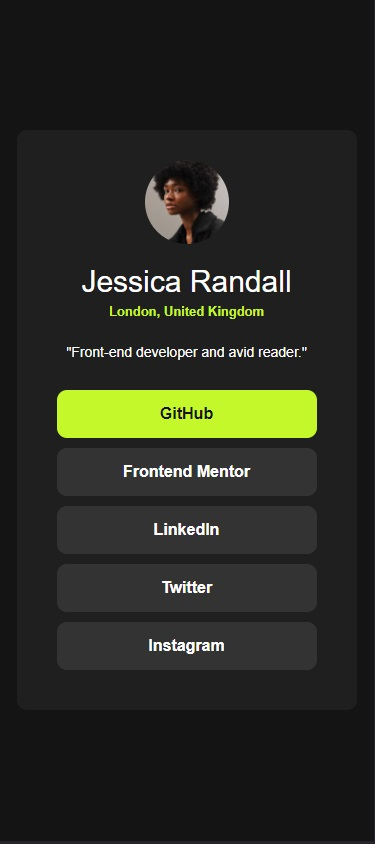
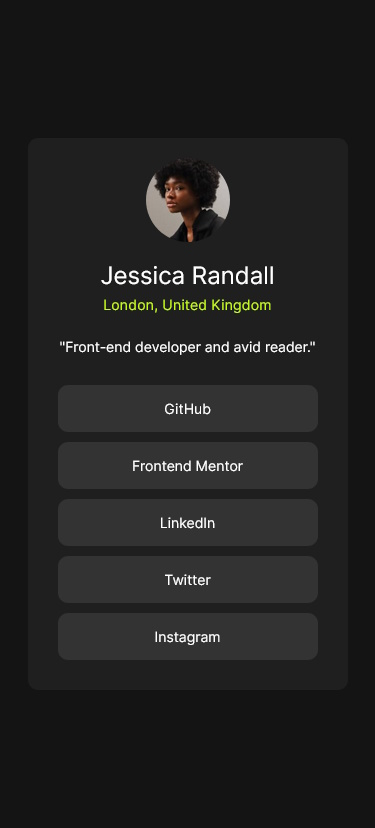
corrections

diff --git a/styles.css b/styles.css
@@ -14,11 +14,13 @@ body {
     display: flex;
     justify-content: center;
     align-items: center;
+    min-height: 100vh;
+    font-size: 14px;
 }
 
 .profile-container {
     background-color: var(--dark-grey);
-    padding: 40px;
+    padding: 20px;
     border-radius: 10px;
     width: 350px;
 }
@@ -29,19 +31,19 @@ body {
 }
 
 .name {
-    font-weight: 700;
+    font-weight: 600;
+    font-size: 1.5rem;
 }
 
 .location {
     color: var(--primary-color);
-    font-weight: 700;
-    margin-top: -15px;
+    font-weight: 400;
+    margin-top: -10px;
     margin-bottom: 25px;
-    font-size: small;
+    font-size: 0.9rem;
 }
 
 .subtext {
-    font-size: 14px;
     font-weight: 400;
     margin-bottom: 30px;
 }
@@ -50,7 +52,7 @@ body {
     text-decoration: none;
     background-color: var(--grey);
     color: var(--white);
-    font-weight: 600;
+    font-weight: 400;
     border-radius: 10px;
     padding: 15px;
     display: block;
@@ -65,12 +67,10 @@ body {
 
 @media (max-width: 375px) {
     .name {
-        font-size: 30px;
         font-weight: 400;
     }
 
     .profile-container {
-    padding: 30px;
     width: 280px;
     margin: 20px auto;
  }

diff --git a/index.html b/index.html
@@ -1,3 +1,4 @@
+<!DOCTYPE html>
 <html lang="en">
 <head>
   <meta charset="UTF-8">

diff --git a/README.md b/README.md
@@ -6,7 +6,7 @@ This is a solution to the [Social links profile challenge on Frontend Mentor](ht
 
 - [Overview](#overview)
   - [The challenge](#the-challenge)
-  - [Screenshots](#screenshot-desktop)
+  - [Screenshots](#screenshots)
   - [Links](#links)
 - [My process](#my-process)
   - [Built with](#built-with)
@@ -21,18 +21,16 @@ Users should be able to:
 
 - See hover and focus states for all interactive elements on the page
 
-### Screenshot Desktop
+### Screenshots
 
 ![](./screenshot.jpg)
-
-### Screenshot Mobile (active state)
 
 ![](./screenshot_mobile.jpg)
 
 ### Links
 
-- Solution URL: https://github.com/theGamingKitten/social-links-profile-main
-- Live Site URL: https://thegamingkitten.github.io/social-links-profile-main/
+- [Solution URL](https://github.com/theGamingKitten/social-links-profile-main)
+- [Live Site URL](https://thegamingkitten.github.io/social-links-profile-main/)
 
 ## My process
 
@@ -58,6 +56,7 @@ body {
     display: flex;
     justify-content: center;
     align-items: center;
+    min-height: 100vh;
 }
 ```
 
